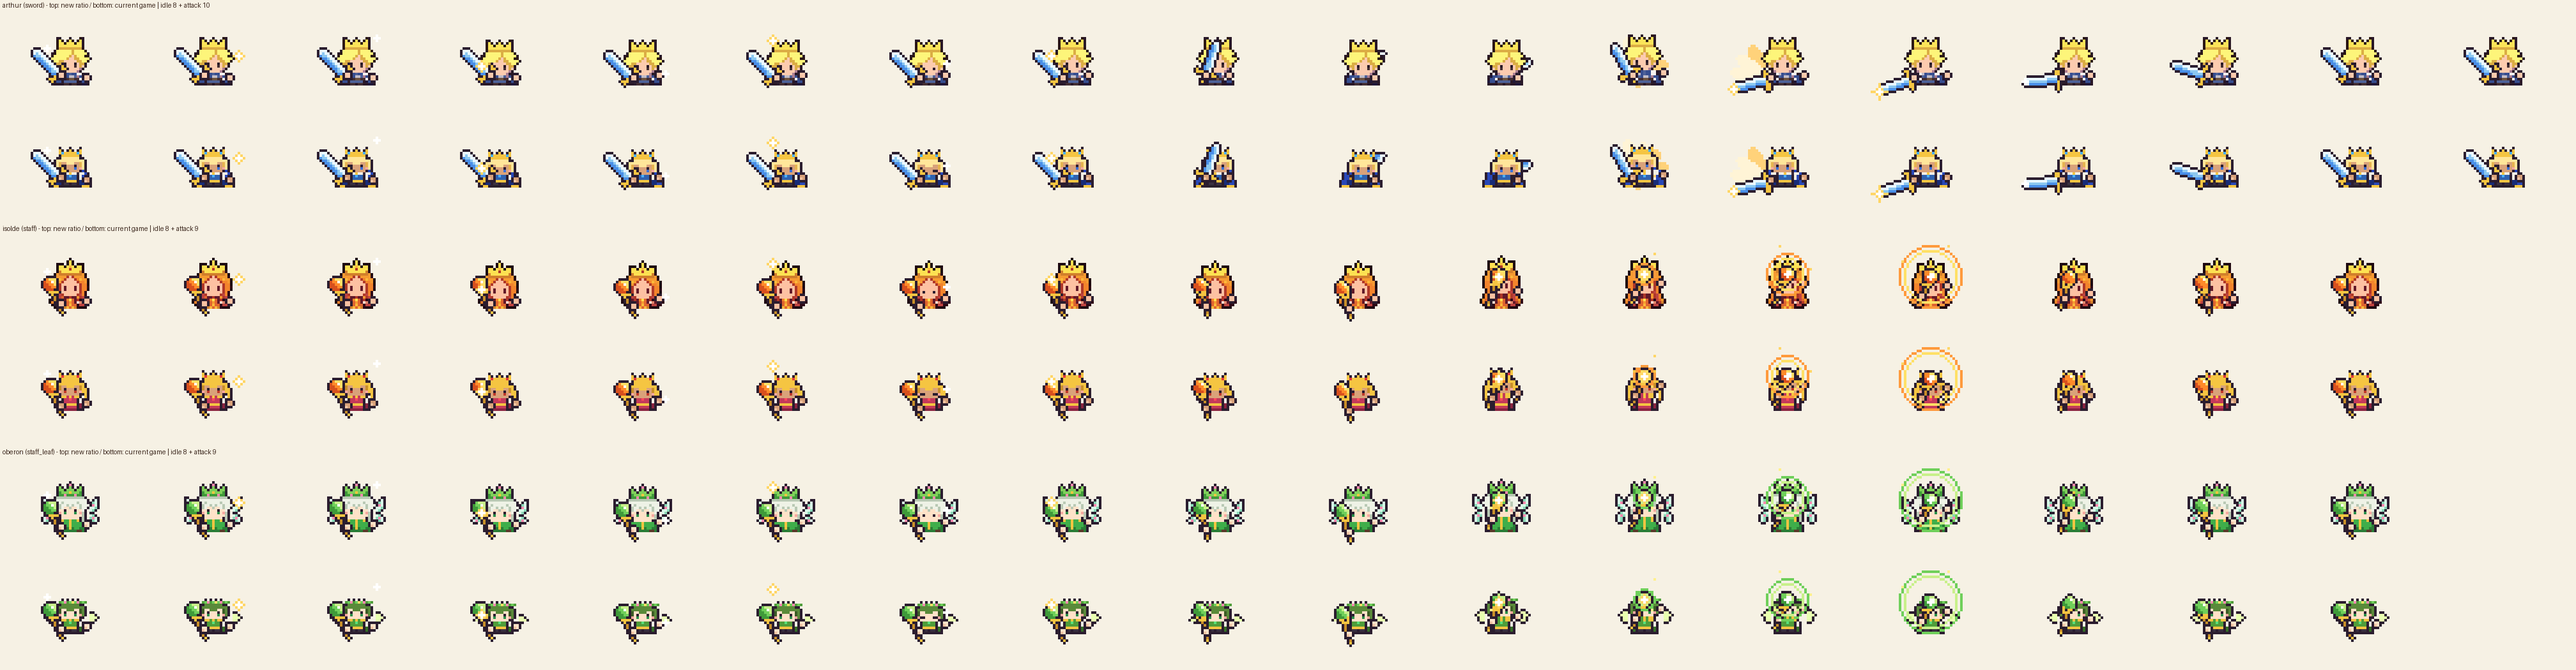
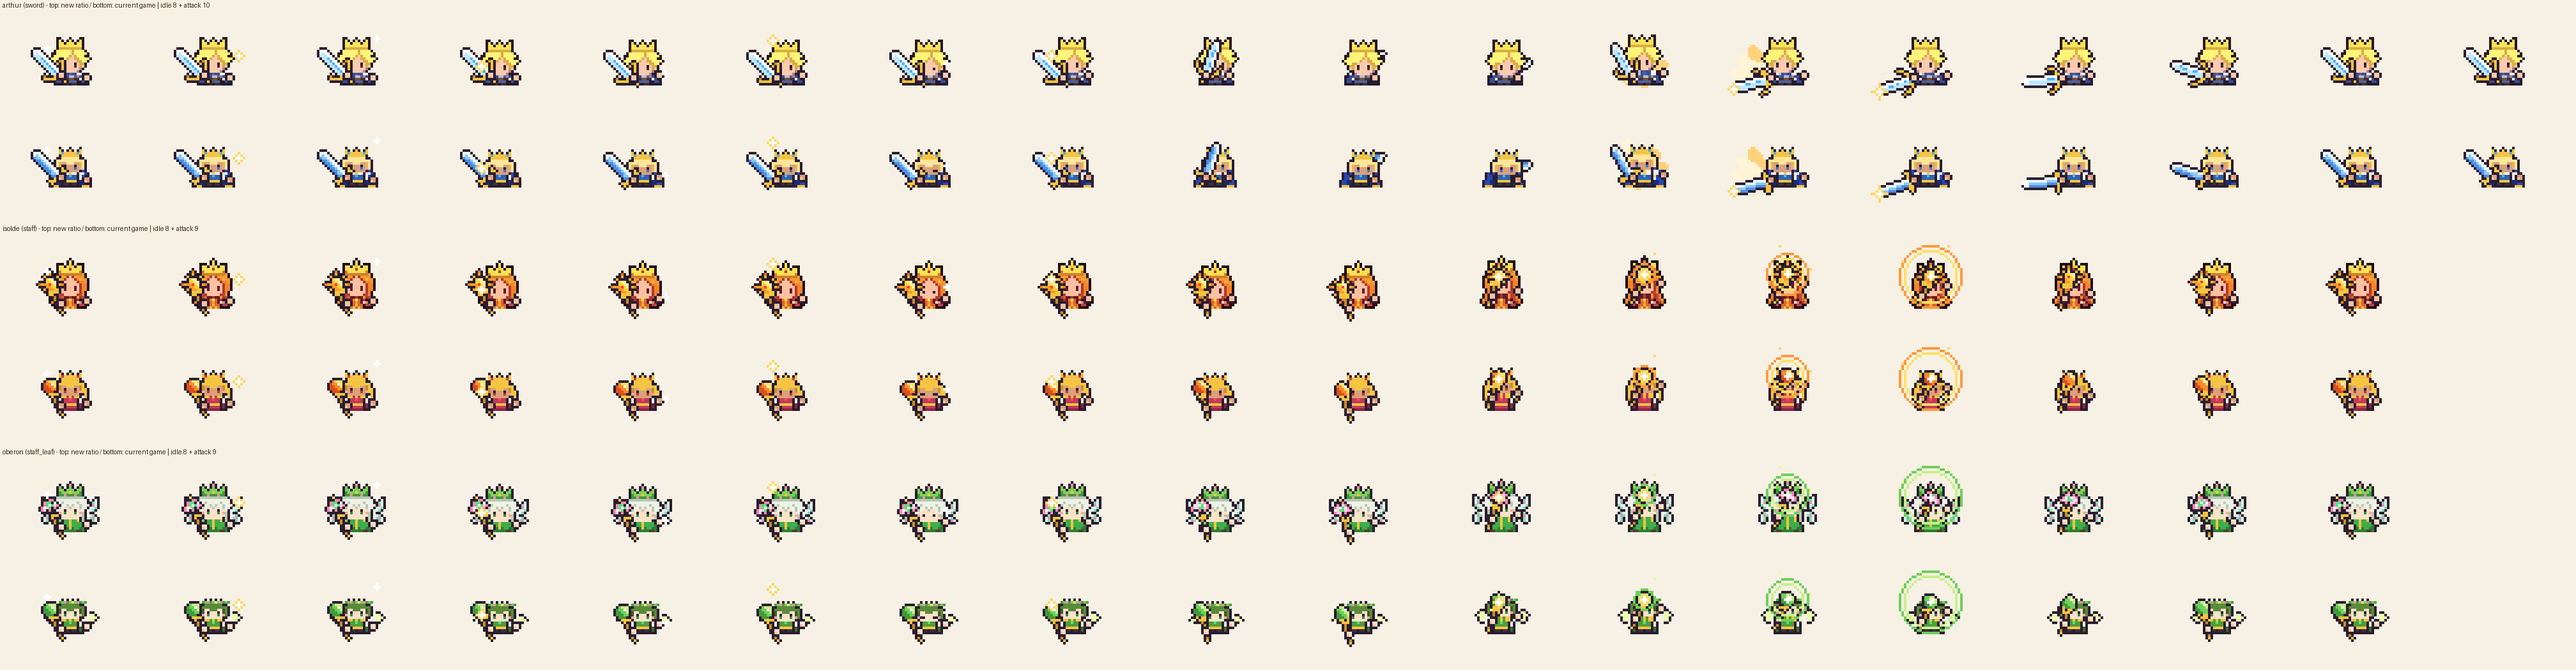
시험 3명 전용 무기: 아서 성검·이졸데 태양 지팡이·오베론 요정 홀
- weapons_v2.py 에 변형 3개 추가 (pick_variant 는 그대로라 게임 그림 영향 없음)

Claude-Session: https://claude.ai/code/session_01SZsqwLwV16mDzSvJa73xyD

diff --git a/docs/drafts/roster-art/weapons_v2.py b/docs/drafts/roster-art/weapons_v2.py
@@ -71,7 +71,17 @@ def geo(name, deg, silhouette=None):
     gem = m['gem']
 
     if name == 'sword':
-        if v == 'great':           # 대검: 3px 넓은 날, 큰 막이
+        if v == 'excalibur':       # 아서 전용 성검 (2026-11-20 시험): 칼날 쪽으로 휘어 오르는 금 날개 막이 + 푸른 보석 + 빛나는 홈
+            band(-1, 0, 0, 0, '#c98f2a'); f[P(-2)] = '#4ab0ff'; f[P(-2.5)] = '#f5c542'
+            band(1, 1.5, -2, 2, '#f5c542')
+            for kk in (-1, 1):
+                for tt, kd in ((1.5, 3), (2.5, 4), (3.5, 4.5), (4.5, 4.5)):
+                    f[P(tt, kk * kd)] = '#f5c542' if tt < 4 else '#c98f2a'
+                f[P(2, kk * 3)] = '#f5c542'
+            f[P(1, 0)] = '#4ab0ff'; f[P(1.5, 0)] = '#4ab0ff'
+            band(2, 13, -1, 1, lambda t, k: '#4ab0ff' if (abs(k) < 0.4 and 3 <= t <= 11) else ('#ffffff' if k < 0 else '#bfe6ff'))
+            band(13.5, 14, -0.5, 0.5, '#ffffff')
+        elif v == 'great':           # 대검: 3px 넓은 날, 큰 막이
             band(-1, 0, 0, 0, m['grip']); f[P(-2)] = m['guard']
             band(1, 1.5, -3.5, 3.5, m['guard'])
             band(2, 13, -1, 1, lambda t, k: m['L'] if k < -0.4 else (m['M'] if k < 0.6 else m['D']))
@@ -174,7 +184,25 @@ def geo(name, deg, silhouette=None):
     elif name in ('staff', 'staff_ice', 'staff_leaf'):
         shaft(-3, 6, m['wood']); f[P(-3)] = m['guard']; f[P(6)] = m['guard']
         lit, mid, dark = A.ORB[name]
-        if v == 'lantern':         # 등불·향로: 사각 틀 안의 불꽃
+        if v == 'sun':             # 이졸데 전용 태양 지팡이 (2026-11-20 시험): 금 원반 + 빛살 8개 + 붉은 보석
+            disc(9, 2.2, lambda dx, dy: '#fff3a0' if -0.7 * dx - 0.7 * dy > 0.8 else ('#ff9a2a' if -0.7 * dx - 0.7 * dy < -0.8 else '#ffd23a'))
+            for ang in range(0, 360, 45):
+                r = math.radians(ang)
+                for rr, col in ((3.4, '#ffb030'), (4.4, '#ff7a1a')):
+                    if ang % 90 and rr > 4: continue        # 대각선 빛살은 짧게
+                    f[(round(u[0] * 9 + math.cos(r) * rr), round(u[1] * 9 + math.sin(r) * rr))] = col
+            f[(round(u[0] * 9), round(u[1] * 9))] = '#ff3a3a'
+            band(5.5, 6, -1.5, 1.5, '#f5c542')
+        elif v == 'fairy':         # 오베론 전용 요정 홀 (2026-11-20 시험): 나비 날개 꽃머리 + 덩굴 잎
+            for kk in (-1, 1):
+                for tt, w in ((8, 1), (9, 3), (10, 3), (11, 2), (12, 1)):
+                    for j in range(1, w + 1):
+                        f[P(tt, kk * j)] = '#ffd0e4' if j < w else '#ff8ab0'   # 몸 뒤 날개(민트)와 구분되게 분홍 꽃잎 날개
+                f[P(10, kk * 2)] = '#ffffff'
+            disc(10, 1, '#5ae07a'); f[P(10)] = '#ffffff'; f[P(13)] = '#ffe066'
+            for tt, kk in ((1, 1), (3, -1), (5, 1)):
+                f[P(tt, kk)] = '#7fd05a'
+        elif v == 'lantern':         # 등불·향로: 사각 틀 안의 불꽃
             band(6.5, 11, -2, 2, m['trim'])
             band(7.5, 10, -1, 1, lambda t, k: lit if t > 9 else mid)
         elif v == 'skull':         # 뼈 지팡이: 해골 머리
@@ -243,7 +271,7 @@ def geo(name, deg, silhouette=None):
     return A._render(f, silhouette)
 
 
-GEO_LEN_V = {('sword', 'great'): 14, ('sword', 'rapier'): 13, ('spear', 'lance'): 16, ('spear', 'trident'): 13, ('gun', 'cannon'): 9,
+GEO_LEN_V = {('sword', 'excalibur'): 14, ('staff', 'sun'): 9, ('staff_leaf', 'fairy'): 10, ('sword', 'great'): 14, ('sword', 'rapier'): 13, ('spear', 'lance'): 16, ('spear', 'trident'): 13, ('gun', 'cannon'): 9,
              ('hammer', 'mace'): 11, ('hammer', 'club'): 10, ('hammer', 'pan'): 11}
 
 

diff --git a/docs/drafts/pixellab-rule-test/animate_tests.py b/docs/drafts/pixellab-rule-test/animate_tests.py
@@ -21,6 +21,9 @@ TESTS = {   # id: (몸 그림, 피부색, 여성)
 OUT = os.path.join(HERE, 'anim')
 os.makedirs(OUT, exist_ok=True)
 orig_body = R.body
+UNIQUE_WPN = {'arthur': 'excalibur', 'isolde': 'sun', 'oberon': 'fairy'}   # 캐릭터 전용 무기 (weapons_v2.py)
+_pick = R.W2.pick_variant
+R.W2.pick_variant = lambda w, look, g, cid: UNIQUE_WPN.get(cid) or _pick(w, look, g, cid)
 
 
 def run(cid):

diff --git a/docs/drafts/pixellab-rule-test/README.md b/docs/drafts/pixellab-rule-test/README.md
@@ -24,3 +24,10 @@
 - `animate_tests.py` → `anim/<id>.png`(게임과 같은 시트: 56x40 프레임, 대기 8 + 공격) · `anim/<id>.gif`(대기 2번 + 공격 1번, 6배) · `anim/preview.png`(위 = 새 비율, 아래 = 지금 게임)
 - 게임과 같은 코드(`roster_art.animate` → `char-13/anim.py`)에 몸 그림만 바꿔 넣음. 무기·둥근 손·대기 숨쉬기·깜빡임·공격 예비/잔상/섬광·유니크 반짝임 그대로
 - 새 비율이라 머리/몸 나누는 줄 = 19(지금 18), 눈 = (9,15)·(13,15). 무기: 아서 대검 · 이졸데 불꽃 지팡이 · 오베론 잎 지팡이
+
+## 3명 전용 무기 (2026-11-20)
+- `roster-art/weapons_v2.py` 에 전용 모양 3개 추가 (게임 캐릭터 고르기 `pick_variant` 는 안 바뀜 → 지금 게임 그림 영향 없음, 시험 스크립트에서만 `UNIQUE_WPN` 으로 지정)
+  - 아서 `sword/excalibur`: 칼날 쪽으로 휘어 오르는 금 날개 막이 · 푸른 보석(막이·손잡이 끝) · 흰 날 + 가운데 빛나는 푸른 홈
+  - 이졸데 `staff/sun`: 금빛 태양 원반 + 빛살 8개(십자 길게·대각선 짧게) + 가운데 붉은 보석, 금 지팡이대
+  - 오베론 `staff_leaf/fairy`: 분홍 꽃잎 나비 날개 머리 + 초록 보석 + 끝 금빛, 지팡이대에 덩굴 잎 (몸 뒤 민트 날개와 구분되게 분홍)
+- 비교 `weapons_compare.png` (전·후 무기 + 새 무기를 든 대기 첫 프레임), 움직임 `anim/<id>.gif`

diff --git a/docs/HISTORY.md b/docs/HISTORY.md
@@ -197,3 +197,4 @@
 - 2026-11-20 PixelLab 아서(새 비율)를 참고로 이졸데 정면 한 장 → perfectPixel 14색(`docs/drafts/pixellab-rule-test/isolde_pp_34.png`)
 - 2026-11-20 PixelLab 비율(머리 9줄 + 몸 5줄)로 오베론 정면을 직접 도트로 찍음(`docs/drafts/pixellab-rule-test/handdot_oberon.py`)
 - 2026-11-20 새 비율 시험 3명(아서·이졸데·오베론)을 지금 애니메이션 규칙 그대로 움직임(`docs/drafts/pixellab-rule-test/animate_tests.py`, 나누는 줄 19)
+- 2026-11-20 시험 3명 전용 무기: 아서 성검(날개 막이·푸른 홈) · 이졸데 태양 지팡이(빛살·붉은 보석) · 오베론 요정 홀(분홍 나비 꽃머리·덩굴) — `weapons_v2.py` 변형 추가, 게임 그림은 그대로
